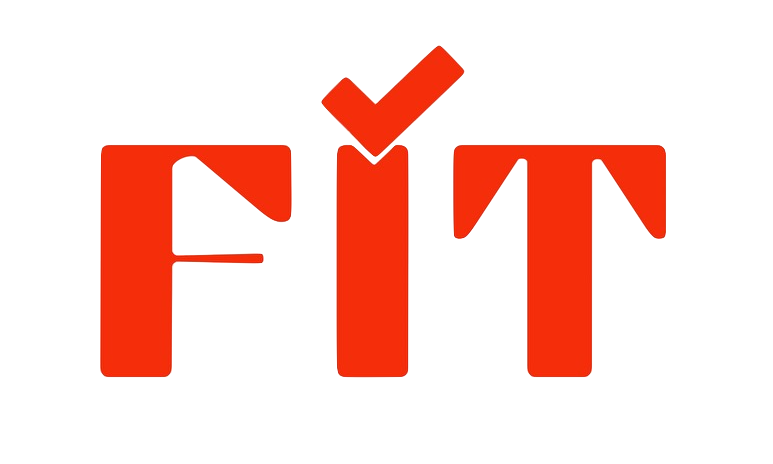
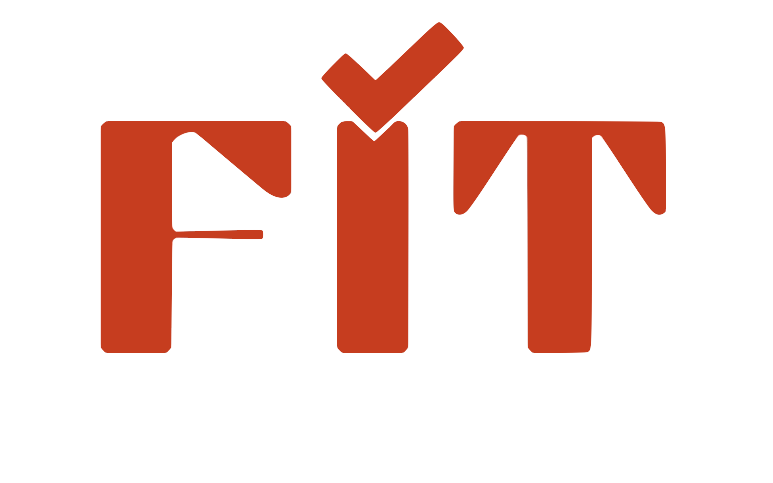
updated all colorways

Changed region(s): [[0.1242, 0.2414, 0.4036, 0.8147], [0.5589, 0.2414, 0.8693, 0.8147], [0.4036, 0.0302, 0.621, 0.8147]]

diff --git a/flutter_app/lib/pages/home_page.dart b/flutter_app/lib/pages/home_page.dart
@@ -28,7 +28,7 @@ class _HomePageState extends State<HomePage> {
           'timestamp': DateTime.now(),
           'comments': <String>[], // Store comments
         };
-        if (isFriendsPage) {
+        if (!isFriendsPage) {
           posts.insert(0, newPost);
          } 
          //else {
@@ -94,6 +94,7 @@ void _toggleFeed(bool isFriendsSelected) {
 
  
  void initDiscoveryPhotos() {
+   discoveryPosts.clear();
    discoveryPosts.insert(0, 'assets/outfit1.png');
    discoveryPosts.insert(0, 'assets/outfit2.png');
    discoveryPosts.insert(0, 'assets/outfit3.png');
@@ -104,7 +105,7 @@ void _toggleFeed(bool isFriendsSelected) {
   @override
   Widget build(BuildContext context) {
     return Scaffold(
-      backgroundColor:Color(0xFFEADCf0),
+      // backgroundColor:Color(0xFFEADCf0),
       body: Column(
         children: [
           _buildTopBar(),
@@ -120,7 +121,7 @@ void _toggleFeed(bool isFriendsSelected) {
                       final post = posts[index]; // Access the map from the list
                         return PostCard(
                         username: "User",
-                        profileImage: "https://via.placeholder.com/150",
+                        profileImage: "assets/outfit1.png",
                         imagePath: post['imagePath']!,
                         caption: post['caption']!,
                         timestamp: post['timestamp'], // Pass timestamp
@@ -160,7 +161,7 @@ void _toggleFeed(bool isFriendsSelected) {
                   child: Container(
                     padding: const EdgeInsets.symmetric(horizontal: 20, vertical: 10),
                     decoration: BoxDecoration(
-                      color: isFriendsPage ? Colors.black : Colors.transparent,
+                      color: isFriendsPage ? Color(0xff872626) : Colors.transparent,
                       borderRadius: BorderRadius.circular(25),
                     ),
                     child: Text(
@@ -168,7 +169,7 @@ void _toggleFeed(bool isFriendsSelected) {
                       style: TextStyle(
                         fontSize: 16,
                         fontWeight: FontWeight.bold,
-                        color: isFriendsPage ? Colors.white : Colors.black,
+                        color: isFriendsPage ? Colors.white : Color(0xff872626),
                       ),
                     ),
                   ),
@@ -178,7 +179,7 @@ void _toggleFeed(bool isFriendsSelected) {
                   child: Container(
                     padding: const EdgeInsets.symmetric(horizontal: 20, vertical: 10),
                     decoration: BoxDecoration(
-                      color: !isFriendsPage ? Colors.black : Colors.transparent,
+                      color: !isFriendsPage ? Color(0xff872626) : Colors.transparent,
                       borderRadius: BorderRadius.circular(25),
                     ),
                     child: Text(
@@ -186,7 +187,7 @@ void _toggleFeed(bool isFriendsSelected) {
                       style: TextStyle(
                         fontSize: 16,
                         fontWeight: FontWeight.bold,
-                        color: !isFriendsPage ? Colors.white : Colors.black,
+                        color: !isFriendsPage ? Colors.white : Color(0xff872626),
                       ),
                     ),
                   ),
@@ -194,11 +195,7 @@ void _toggleFeed(bool isFriendsSelected) {
               ],
             ),
           ),
-          FloatingActionButton(
-            backgroundColor: Colors.white,
-            onPressed: () => _showImageSourceActionSheet(context),
-            child: const Icon(Icons.camera_alt, color: Colors.black),
-          ),
+          
         ],
       ),
     );
@@ -211,7 +208,7 @@ void _toggleFeed(bool isFriendsSelected) {
         mainAxisAlignment: MainAxisAlignment.spaceBetween,
         children: [
           IconButton(
-            icon: const Icon(Icons.group, color: Colors.white, size: 28),
+            icon: const Icon(Icons.group, color: Color(0xffd0addc), size: 28),
             onPressed: () {},
           ),
           Image.asset(
@@ -228,7 +225,7 @@ void _toggleFeed(bool isFriendsSelected) {
             },
             child: const CircleAvatar(
               radius: 24,
-              backgroundColor: Colors.grey,
+              backgroundColor: Color(0xffd0addc),
               child: Icon(Icons.person, color: Colors.white, size: 26),
             ),
           ),
@@ -244,12 +241,12 @@ void _toggleFeed(bool isFriendsSelected) {
         child: Column(
           mainAxisAlignment: MainAxisAlignment.center,
           children: const [
-            Icon(Icons.camera_alt, size: 50, color: Colors.grey),
+            Icon(Icons.camera_alt, size: 50, color: Color(0xffb57977)),
             SizedBox(height: 10),
             Text(
               "No posts yet.\nTake a picture!",
               textAlign: TextAlign.center,
-              style: TextStyle(color: Colors.grey, fontSize: 18),
+              style: TextStyle(color: Color(0xffb57977), fontSize: 18),
             ),
           ],
         ),
@@ -283,24 +280,49 @@ void _toggleFeed(bool isFriendsSelected) {
 
   Widget _buildPostWidget(String imagePath) {
  // If the imagePath starts with 'assets/', treat it as an asset image.
-    return Column(
+    return ListView(
       children: [
         // Condition to check if extra content should be shown above the GridView
-        if (!isFriendsPage)
+  
           Container(
             padding: EdgeInsets.all(10),
             
             child: Text(
               'fitPiece: pea coat',
-              style: TextStyle(fontSize: 18, fontWeight: FontWeight.bold, color: Colors.black),
+              style: TextStyle(fontSize: 25, fontWeight: FontWeight.bold, color: Color(0xffd64117)),
+              textAlign: TextAlign.center,
             ),
           ),
+
+          Container( // only show this if daily post has not been made yet, otherwise pull today's post
+            height: 300,
+            width: 250,
+            child: Center(
+              child: Material(
+                child: InkWell(
+                  onTap: () => _showImageSourceActionSheet(context),
+                  child: SizedBox(
+                    height: 300, 
+                    width: 250, 
+                    child: Image.asset(
+                      'assets/cameraIcon.png', 
+                      fit: BoxFit.cover,
+                      width: 200, 
+                      height: 300, 
+                    ),
+                  ),
+                ),
+              ),
+            ),
+          ),
+
           Container(
             padding: EdgeInsets.all(10),
             
             child: Text(
               'find inspiration',
-              style: TextStyle(fontSize: 18, fontWeight: FontWeight.bold, color: Colors.black),
+              style: TextStyle(fontSize: 18, fontWeight: FontWeight.bold, color: Color(0xff872626)),
+              textAlign: TextAlign.center,
             ),
           ),
         

diff --git a/flutter_app/lib/widgets/post_card.dart b/flutter_app/lib/widgets/post_card.dart
@@ -73,7 +73,7 @@ class _PostCardState extends State<PostCard> {
       margin: const EdgeInsets.symmetric(vertical: 10),
       padding: const EdgeInsets.all(10),
       decoration: const BoxDecoration(
-        color: Colors.black,
+        //color: Colors.black,
       ),
       child: Column(
         crossAxisAlignment: CrossAxisAlignment.start,
@@ -93,14 +93,14 @@ class _PostCardState extends State<PostCard> {
                   Text(
                     widget.username,
                     style: const TextStyle(
-                      color: Colors.white,
+                      color: Color(0xffd64117),
                       fontWeight: FontWeight.bold,
                     ),
                   ),
                   Text(
                     getFormattedTime(),
                     style: const TextStyle(
-                      color: Colors.grey,
+                      color: Color(0xffb57977),
                       fontSize: 12,
                     ),
                   ),
@@ -109,7 +109,7 @@ class _PostCardState extends State<PostCard> {
               const Spacer(),
               const Icon(
                 Icons.more_vert,
-                color: Colors.white,
+                color: Color(0xffd64117),
               )
             ],
           ),
@@ -136,7 +136,7 @@ class _PostCardState extends State<PostCard> {
               padding: const EdgeInsets.symmetric(vertical: 8.0),
               child: Text(
                 widget.caption,
-                style: const TextStyle(color: Colors.white, fontSize: 16, fontWeight: FontWeight.w500),
+                style: const TextStyle(color: Color(0xff872626), fontSize: 16, fontWeight: FontWeight.w500),
               ),
             ),
           Row(
@@ -145,21 +145,21 @@ class _PostCardState extends State<PostCard> {
               Row(
                 children: [
                   IconButton(
-                    icon: Icon(isLiked ? Icons.favorite : Icons.favorite_border, color: Colors.white),
+                    icon: Icon(isLiked ? Icons.favorite : Icons.favorite_border, color: Color(0xffd64117)),
                     onPressed: toggleLike,
                   ),
                   Text(
                     "$likes",
-                    style: const TextStyle(color: Colors.white),
+                    style: const TextStyle(color: Color(0xffd64117)),
                   ),
                   const SizedBox(width: 10),
                   IconButton(
-                    icon: const Icon(Icons.comment, color: Colors.white),
+                    icon: const Icon(Icons.comment, color: Color(0xffd64117)),
                     onPressed: openComments,
                   ),
                 ],
               ),
-              const Icon(Icons.share, color: Colors.white),
+              //const Icon(Icons.share, color: Color(0xffd64117)),
             ],
           ),
         ],

diff --git a/flutter_app/lib/pages/otp_verification.dart b/flutter_app/lib/pages/otp_verification.dart
@@ -9,7 +9,6 @@ class OtpVerificationScreen extends StatelessWidget {
     String phoneNumber = args?["phoneNumber"] ?? "your number";
 
     return Scaffold(
-      backgroundColor:Color(0xFFEADCf0),
       body: SafeArea(
         child: Padding(
           padding: const EdgeInsets.symmetric(horizontal: 32.0),
@@ -18,13 +17,13 @@ class OtpVerificationScreen extends StatelessWidget {
             children: [
               const Text(
                 'Enter the code',
-                style: TextStyle(fontSize: 28, fontWeight: FontWeight.bold, color: Colors.white),
+                style: TextStyle(fontSize: 28, fontWeight: FontWeight.bold, color: Color(0xffd64117)),
               ),
               const SizedBox(height: 10),
               Text(
                 'We sent a code to $phoneNumber',
                 textAlign: TextAlign.center,
-                style: const TextStyle(fontSize: 16, color: Colors.white60),
+                style: const TextStyle(fontSize: 16, fontWeight: FontWeight.bold, color: Color(0xff872626)),
               ),
               const SizedBox(height: 40),
 
@@ -35,9 +34,9 @@ class OtpVerificationScreen extends StatelessWidget {
                 style: const TextStyle(color: Colors.white),
                 decoration: InputDecoration(
                   filled: true,
-                  fillColor: Colors.grey[800],
+                  fillColor: Color(0xffd0addc),
                   hintText: 'Enter OTP',
-                  hintStyle: const TextStyle(color: Colors.white60),
+                  hintStyle: const TextStyle(color: Colors.white, fontWeight: FontWeight.bold),
                   border: OutlineInputBorder(
                     borderRadius: BorderRadius.circular(12),
                     borderSide: BorderSide.none,
@@ -52,14 +51,19 @@ class OtpVerificationScreen extends StatelessWidget {
                   Navigator.pushReplacementNamed(context, "/home");
                 },
                 style: ElevatedButton.styleFrom(
-                  backgroundColor: Colors.blue,
+                  backgroundColor: Color(0xff872626),
                   foregroundColor: Colors.white,
-                  padding: const EdgeInsets.symmetric(vertical: 16),
+                  padding: const EdgeInsets.symmetric(vertical: 16, horizontal: 24), 
                   shape: RoundedRectangleBorder(
                     borderRadius: BorderRadius.circular(12),
                   ),
                 ),
-                child: const Text('Verify & Continue'),
+                child: const Text("Verify & Continue",
+                    style: TextStyle(
+                    fontSize: 15,
+                    fontWeight: FontWeight.bold,
+                    color: Colors.white,
+                  ),),
               ),
             ],
           ),

diff --git a/flutter_app/lib/pages/phone_login.dart b/flutter_app/lib/pages/phone_login.dart
@@ -46,7 +46,6 @@ class _PhoneLoginScreenState extends State<PhoneLoginScreen> {
     return GestureDetector(
       onTap: _dismissKeyboard,
       child: Scaffold(
-        backgroundColor:Color(0xFFEADCf0),
         body: SafeArea(
           child: SingleChildScrollView(
             padding: const EdgeInsets.symmetric(horizontal: 24.0),
@@ -72,7 +71,7 @@ class _PhoneLoginScreenState extends State<PhoneLoginScreen> {
                   style: TextStyle(
                     fontSize: 22,
                     fontWeight: FontWeight.bold,
-                    color: Colors.white,
+                    color: Color(0xff872626),
                   ),
                 ),
 
@@ -88,12 +87,13 @@ class _PhoneLoginScreenState extends State<PhoneLoginScreen> {
                   style: const TextStyle(color: Colors.white),
                   decoration: InputDecoration(
                     filled: true,
-                    fillColor: Colors.grey[900],
+                    fillColor: Color(0xffd0addc),
                     hintText: 'Enter your phone number',
                     hintStyle: TextStyle(color: Colors.grey[600]),
                     border: OutlineInputBorder(
                       borderRadius: BorderRadius.circular(12),
                       borderSide: BorderSide.none,
+                      
                     ),
                   ),
                   initialCountryCode: 'US',
@@ -129,7 +129,7 @@ class _PhoneLoginScreenState extends State<PhoneLoginScreen> {
                   child: ElevatedButton(
                     onPressed: isValid ? sendOtp : null,
                     style: ElevatedButton.styleFrom(
-                      backgroundColor: isValid ? Colors.blue : Colors.grey[700],
+                      backgroundColor: isValid ? Color(0xffd64117) : Colors.grey[700],
                       foregroundColor: Colors.white,
                       shape: RoundedRectangleBorder(
                         borderRadius: BorderRadius.circular(12),

diff --git a/flutter_app/lib/screens/preview_screen.dart b/flutter_app/lib/screens/preview_screen.dart
@@ -16,7 +16,7 @@ class _PreviewScreenState extends State<PreviewScreen> {
   @override
   Widget build(BuildContext context) {
     return Scaffold(
-      backgroundColor: Colors.black,
+      // backgroundColor: Colors.black,
       body: Column(
         children: [
           Expanded(
@@ -28,15 +28,15 @@ class _PreviewScreenState extends State<PreviewScreen> {
             padding: const EdgeInsets.all(12.0),
             child: TextField(
               controller: _captionController,
-              style: const TextStyle(color: Colors.white),
+              style: const TextStyle(color: Color(0xff872626)),
               decoration: InputDecoration(
                 hintText: "Write a caption...",
-                hintStyle: TextStyle(color: Colors.grey),
+                hintStyle: TextStyle(color: Color(0xff872626)),
                 border: OutlineInputBorder(
                   borderRadius: BorderRadius.circular(12),
                 ),
                 filled: true,
-                fillColor: Colors.grey[800],
+                fillColor: Colors.white,
               ),
             ),
           ),
@@ -44,7 +44,7 @@ class _PreviewScreenState extends State<PreviewScreen> {
             padding: const EdgeInsets.only(bottom: 20.0),
             child: ElevatedButton(
               style: ElevatedButton.styleFrom(
-                backgroundColor: Colors.white,
+                backgroundColor: Color(0xff872626),
                 padding: const EdgeInsets.symmetric(horizontal: 50, vertical: 15),
               ),
               onPressed: () {
@@ -53,7 +53,7 @@ class _PreviewScreenState extends State<PreviewScreen> {
               },
               child: const Text(
                 "Post",
-                style: TextStyle(color: Colors.black, fontSize: 18),
+                style: TextStyle(color: Colors.white, fontSize: 18),
               ),
             ),
           ),

diff --git a/flutter_app/lib/main.dart b/flutter_app/lib/main.dart
@@ -39,7 +39,9 @@ class _MyAppState extends State<MyApp> {
     return MaterialApp(
       debugShowCheckedModeBanner: false,
       title: 'FitCheck',
-      theme: ThemeData.dark(),
+      theme: ThemeData(
+        scaffoldBackgroundColor: Color(0xffEFE3F3)
+      ),
       initialRoute: '/',
       routes: {
         '/': (context) => const PhoneLoginScreen(),
